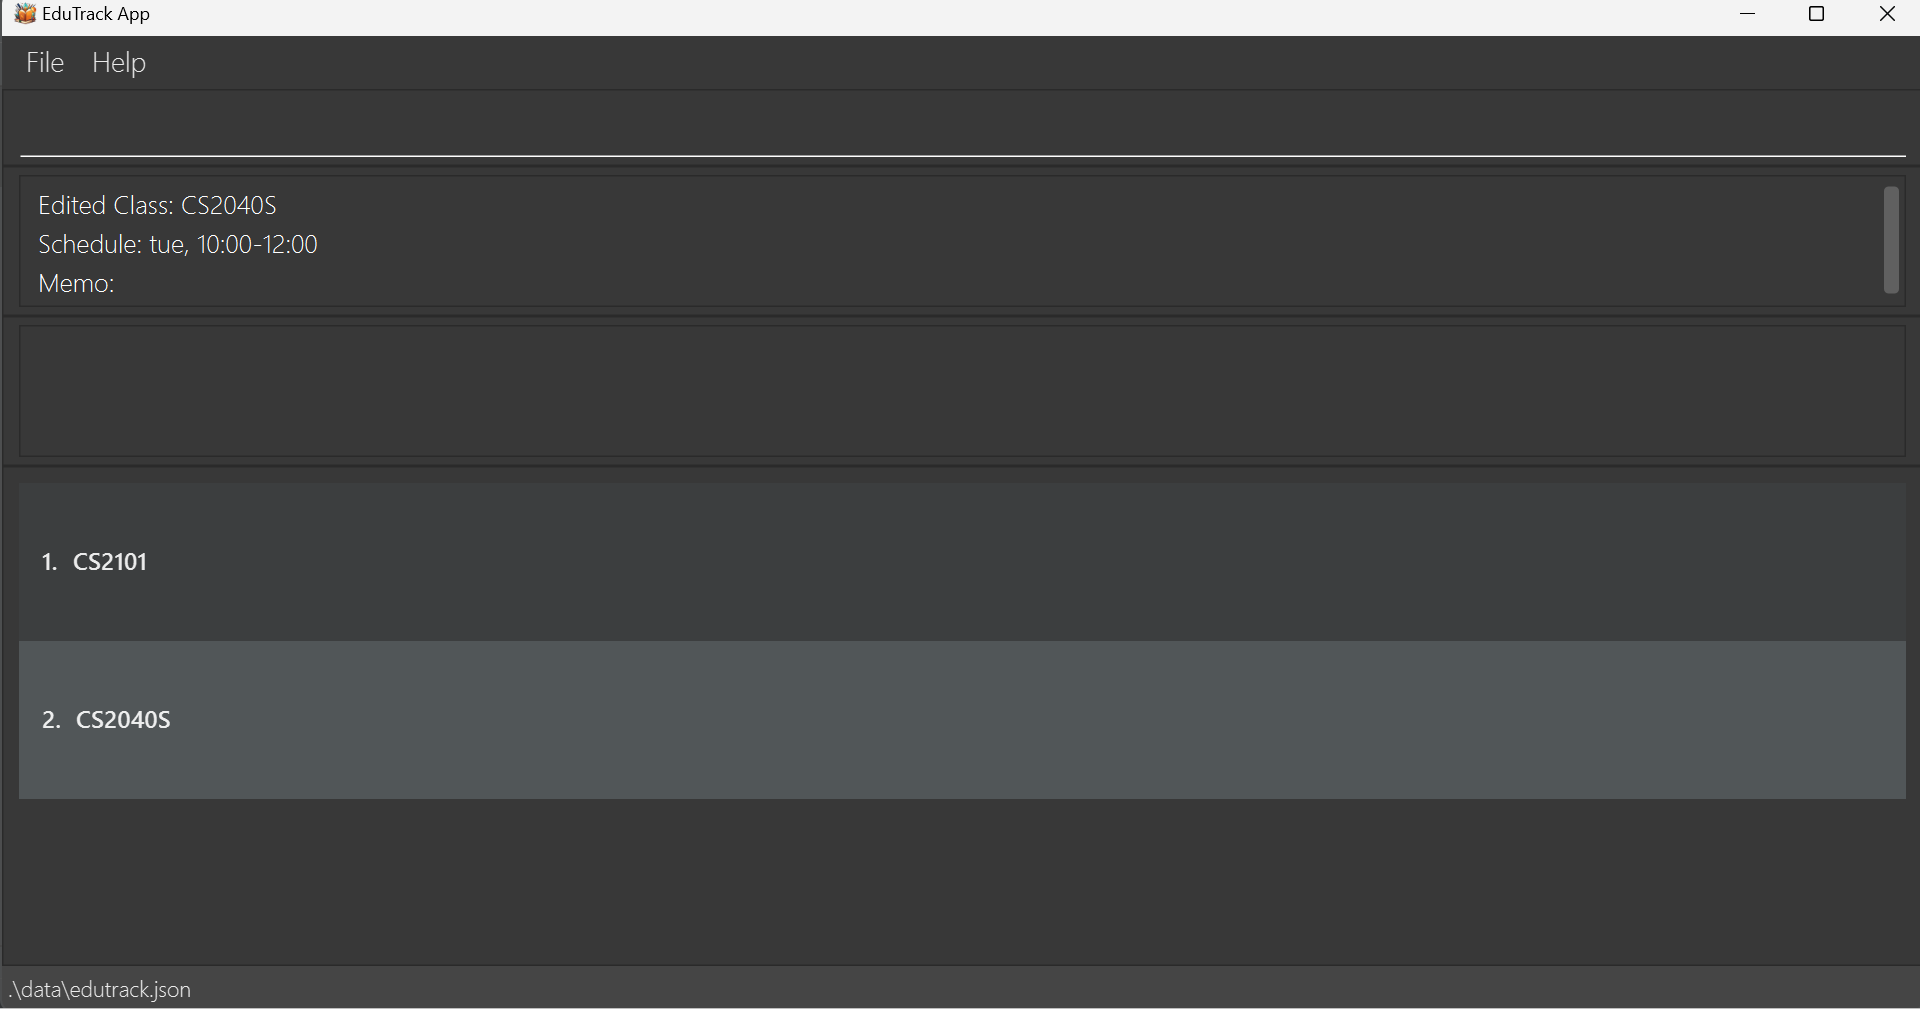
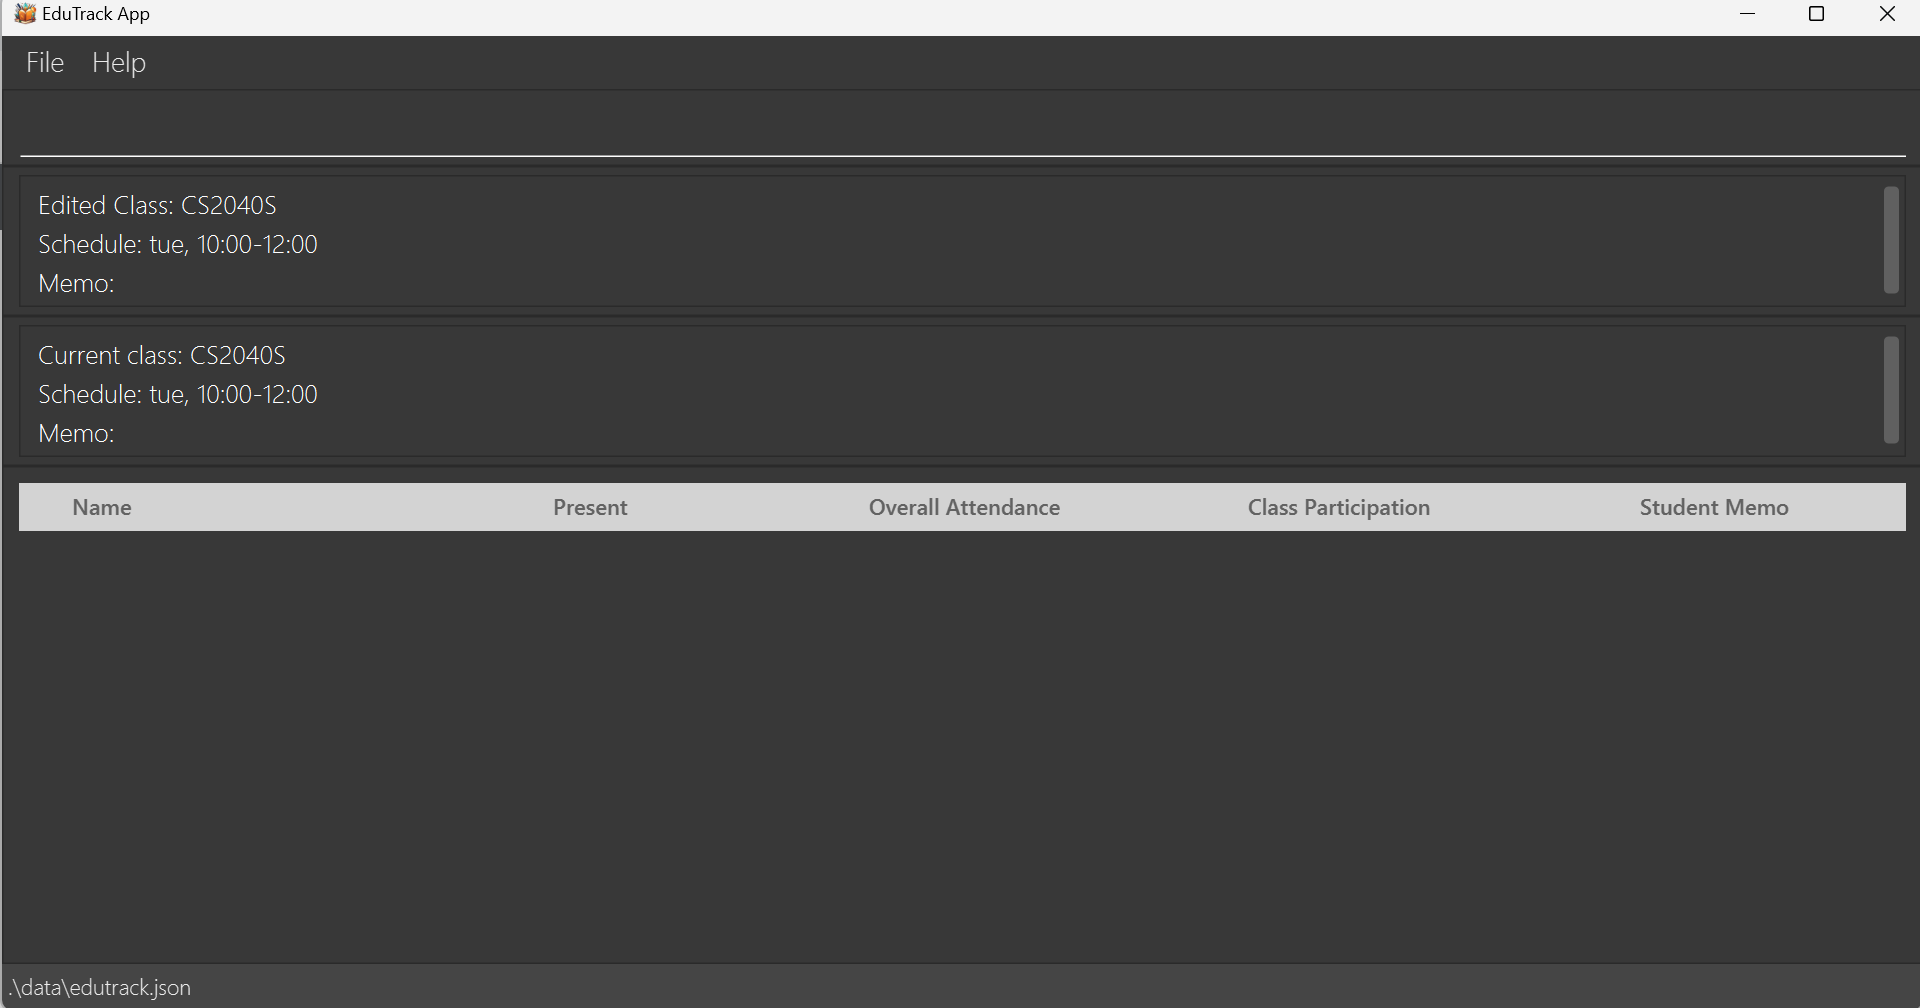
update UG screenshot to match UI, final update for PPP

diff --git a/docs/team/songgthu.md b/docs/team/songgthu.md
@@ -43,14 +43,16 @@ Given below are my contributions to the project.
 
 - Added documentation for the features `adding a class` and `editing a class`: Pull request [#61](https://github.com/AY2324S1-CS2103T-T15-3/tp/pull/61)
 - Modified existing documentation of `Miscellaneous features`: Pull request [#86](https://github.com/AY2324S1-CS2103T-T15-3/tp/pull/86)
-- Added the following sections: `Command Parameters`, `EduTrack's Graphical User Interface`
-- Contributed in standardising language use: Pull request [#86](https://github.com/AY2324S1-CS2103T-T15-3/tp/pull/86)
+- Added the following sections: `Command Parameters`, `EduTrack's Graphical User Interface`: [#139](https://github.com/AY2324S1-CS2103T-T15-3/tp/pull/139)
+- Contributed in standardising language use and enhance formatting: Pull request [#86](https://github.com/AY2324S1-CS2103T-T15-3/tp/pull/86), [#155](https://github.com/AY2324S1-CS2103T-T15-3/tp/pull/155)
 
 **Contributions to the DG:**
+
 - Described the implementation of the feature `adding a class`: Pull request [#61](https://github.com/AY2324S1-CS2103T-T15-3/tp/pull/61)
 - Added activity diagram, object diagram and sequence diagram of the feature `adding a class`: : Pull request [#61](https://github.com/AY2324S1-CS2103T-T15-3/tp/pull/61)
 - Added target user profile, user stories, value proposition and non-functional requirements: Pull request [#26](https://github.com/AY2324S1-CS2103T-T15-3/tp/pull/26)
 - Added use cases for the features `adding a class` and `editing a class`: Pull request [#26](https://github.com/AY2324S1-CS2103T-T15-3/tp/pull/26)
 
 **Other contributions:**
-- Recorded product demos for `v1.2` and `v1.3`.
+- **Team-based tasks:** Recorded product demos for `v1.2` and `v1.3`.
+- **Community:** PRs reviewed (with non-trivial review comments): [#154](https://github.com/AY2324S1-CS2103T-T15-3/tp/pull/154), [#153](https://github.com/AY2324S1-CS2103T-T15-3/tp/pull/153), [#152](https://github.com/AY2324S1-CS2103T-T15-3/tp/pull/152), [#151](https://github.com/AY2324S1-CS2103T-T15-3/tp/pull/151)

diff --git a/docs/UserGuide.md b/docs/UserGuide.md
@@ -413,11 +413,19 @@ startlesson /c CS2103T
 ```
 3. You can enter `view /c 1` to see what your original class looks like, as shown below:
 
+<br>
+
 ![](images/startlesson_example_before.png)
+
+<br>
 
 4. The result box will display the following message:
 
+<br>
+
 ![](images/startlesson_example_after.png)
+
+<br>
 
 5. You have successfully started a lesson in "CS2103T". :tada:
 
@@ -600,9 +608,13 @@ Edits an existing student from your specified class. You can edit your student's
 view /c 1
 edit /s 2 /c CS2103T /id A010193Z
 ```
-3. The result box will display the following message:<br>
+3. The result box will display the following message:
+
+<br>
 
 ![EditStudentExample.png](images/EditStudentExample.png)
+
+<br>
 
 4. You have successfully edited your student's details. :tada:
 
